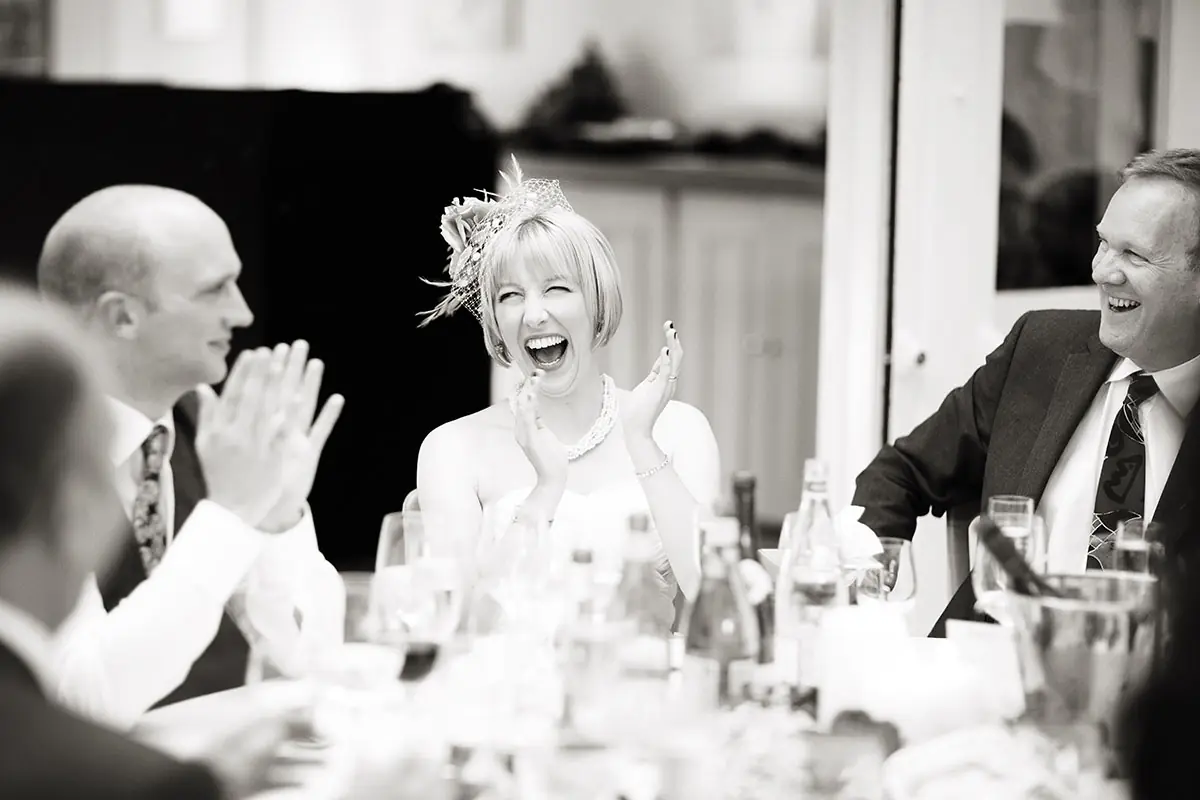
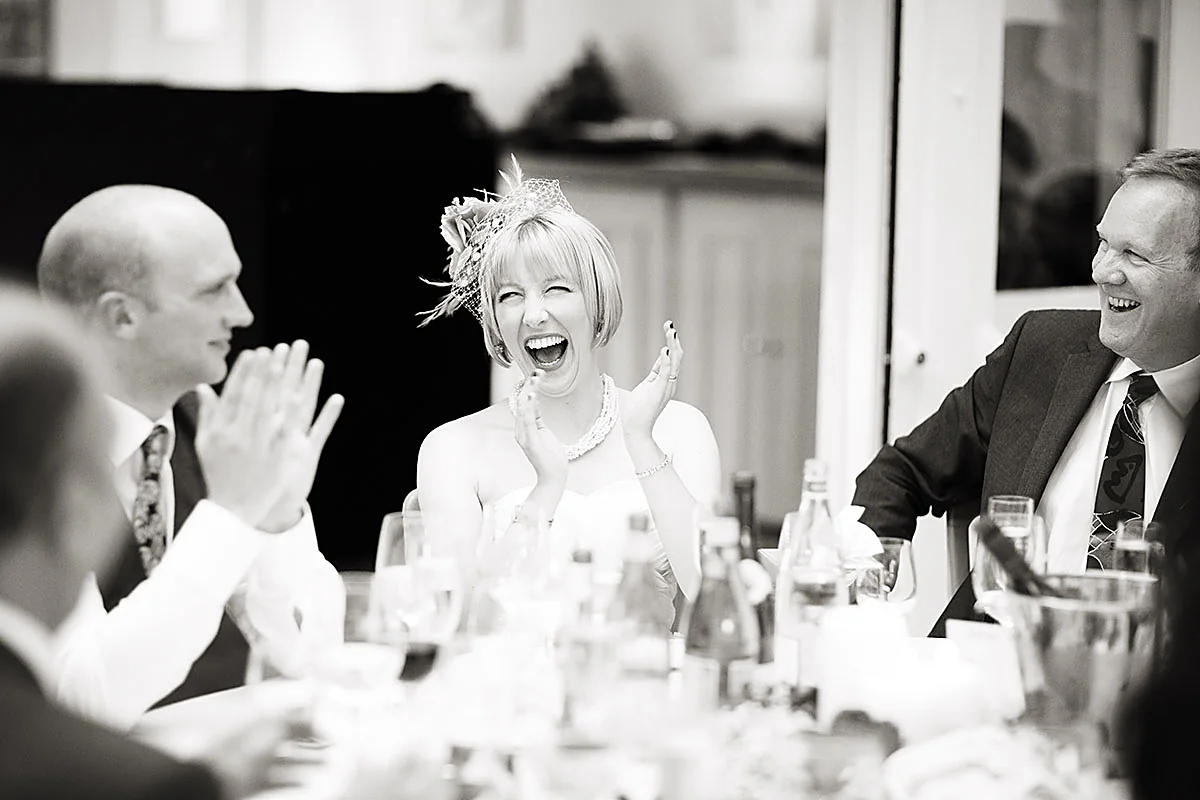
Item 6: crisp B&W hero (no sepia), stats strip above the fold at 1280x800, 2x2 at tablet

diff --git a/style.css b/style.css
@@ -60,16 +60,16 @@ h2.sec,.sub{font-size:clamp(28px,5vw,40px)}
 p+p{margin-top:1em}
 section{padding:clamp(54px,9vw,104px) 0}
 /* hero */
-.hero{position:relative;padding:0;min-height:min(84svh,760px);display:flex;align-items:flex-end;color:#fff;isolation:isolate;overflow:hidden}
-.hero>img{position:absolute;inset:0;width:100%;height:100%;object-fit:cover;object-position:30% 40%;z-index:-2;filter:sepia(.28) saturate(1.1)}
-.hero:after{content:"";position:absolute;inset:0;z-index:-1;background:linear-gradient(180deg,rgba(43,27,34,.35) 0%,rgba(43,27,34,.15) 35%,rgba(92,24,40,.82) 100%)}
-.hero .wrap{padding:90px 0 96px}.hero h1{color:#fff;text-shadow:0 2px 24px rgba(0,0,0,.35)}.hero h1 .r{color:#ffd7de}
+.hero{position:relative;padding:0;min-height:clamp(440px,calc(100svh - 330px),700px);display:flex;align-items:flex-end;color:#fff;isolation:isolate;overflow:hidden}
+.hero>img{position:absolute;inset:0;width:100%;height:100%;object-fit:cover;object-position:30% 35%;z-index:-2}
+.hero:after{content:"";position:absolute;inset:0;z-index:-1;background:linear-gradient(180deg,rgba(43,27,34,.22) 0%,rgba(43,27,34,.08) 30%,rgba(60,18,30,.78) 100%)}
+.hero .wrap{padding:64px 0 96px}.hero h1{color:#fff;text-shadow:0 2px 24px rgba(0,0,0,.35)}.hero h1 .r{color:#ffd7de}
 .hero .eyebrow{color:#fff3d1}.hero .eyebrow:before{background:#fff3d1}
 .hero .lead{color:#fff;margin:16px 0 26px;text-shadow:0 1px 12px rgba(0,0,0,.4)}
 /* facts */
 .facts{padding:0;margin-top:-52px;position:relative;z-index:2}
 .factrow{display:grid;grid-template-columns:1fr 1fr;gap:12px}
-.fact{background:var(--paper);border:1px solid var(--line);border-radius:18px;padding:16px 16px 14px;box-shadow:var(--sh);display:flex;flex-direction:column;gap:2px}
+.fact{justify-content:center;background:var(--paper);border:1px solid var(--line);border-radius:18px;padding:16px 16px 14px;box-shadow:var(--sh);display:flex;flex-direction:column;gap:2px}
 .fact b{font-family:var(--serif);font-size:22px;color:var(--rose);line-height:1.15;font-weight:600}.fact b::first-letter{text-transform:uppercase}
 .fact span{font-size:12.5px;letter-spacing:.12em;text-transform:uppercase;color:var(--mut);font-weight:600}
 /* video facade */
@@ -169,7 +169,8 @@ hr{border:0;border-top:1px solid var(--line);margin:24px 0}.blk.space{height:40p
 .js-rv .rv:not(.in),.js-rv section:not(.in):not(.hero):not(.facts):not(.phead){opacity:0;transform:translateY(14px)}
 .js-rv .rv,.js-rv section{transition:opacity .6s ease,transform .6s ease;transition-delay:var(--d,0ms)}
 @media (prefers-reduced-motion:reduce){html{scroll-behavior:auto}.js-rv .rv,.js-rv section{transition:none!important;opacity:1!important;transform:none!important}}
-@media (min-width:640px){.factrow{grid-template-columns:repeat(4,1fr)}.funs{grid-template-columns:repeat(3,1fr)}.funs li{flex-direction:column;text-align:center;padding:22px 14px}.ggrid{columns:2}.rvgrid{grid-template-columns:1fr 1fr}.vgrid{grid-template-columns:1fr 1fr}.tgrid,.blk-cards.c3,.blk-cards.c2{grid-template-columns:1fr 1fr}.gintro{grid-template-columns:1fr 1.2fr}}
+@media (min-width:1024px){.factrow{grid-template-columns:repeat(4,1fr)}}
+@media (min-width:640px){.funs{grid-template-columns:repeat(3,1fr)}.funs li{flex-direction:column;text-align:center;padding:22px 14px}.ggrid{columns:2}.rvgrid{grid-template-columns:1fr 1fr}.vgrid{grid-template-columns:1fr 1fr}.tgrid,.blk-cards.c3,.blk-cards.c2{grid-template-columns:1fr 1fr}.gintro{grid-template-columns:1fr 1.2fr}}
 @media (min-width:900px){.two{grid-template-columns:1fr 1fr;gap:56px}.two.top.side-wide{grid-template-columns:1.3fr 1fr}.fun .two{align-items:start}.rvgrid{grid-template-columns:repeat(3,1fr)}.rvgrid.cols{display:block;columns:3;column-gap:18px}.rvgrid.cols .rev{margin-bottom:18px}.ggrid{columns:3}.pr{flex-direction:row;flex-basis:420px}.blk-imageText{grid-template-columns:1fr 1fr}.blk-imageText.right img{order:2}.blk-cards.c3{grid-template-columns:repeat(3,1fr)}.fgrid{grid-template-columns:1.4fr 1.3fr auto;align-items:start}.legal{grid-column:1/-1}.post{padding:34px 38px}.seeya .two{align-items:center}}
 @media (min-width:1240px){nav.main{display:flex}.hact{display:flex}button.ham{display:none}.mnav{display:none!important}.sticky.dock{display:none}body{padding-bottom:0}}
 @media (min-width:1240px){.brand .bn{font-size:22px}}
